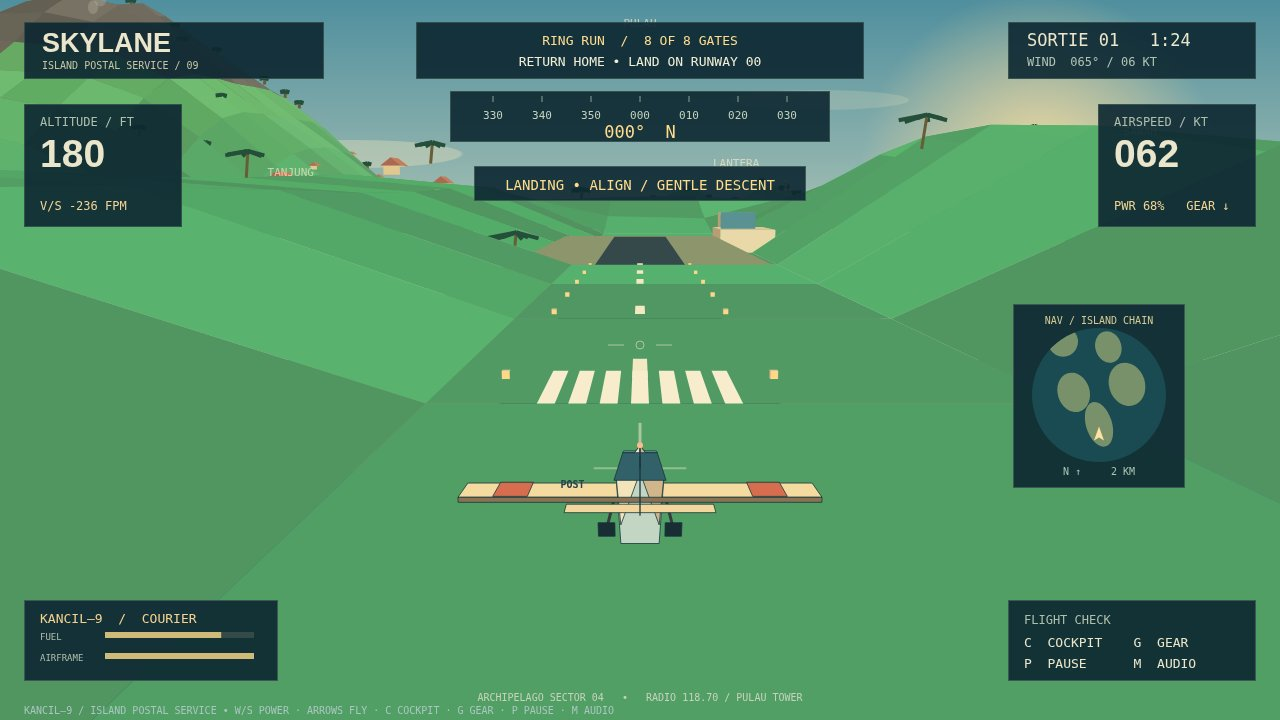
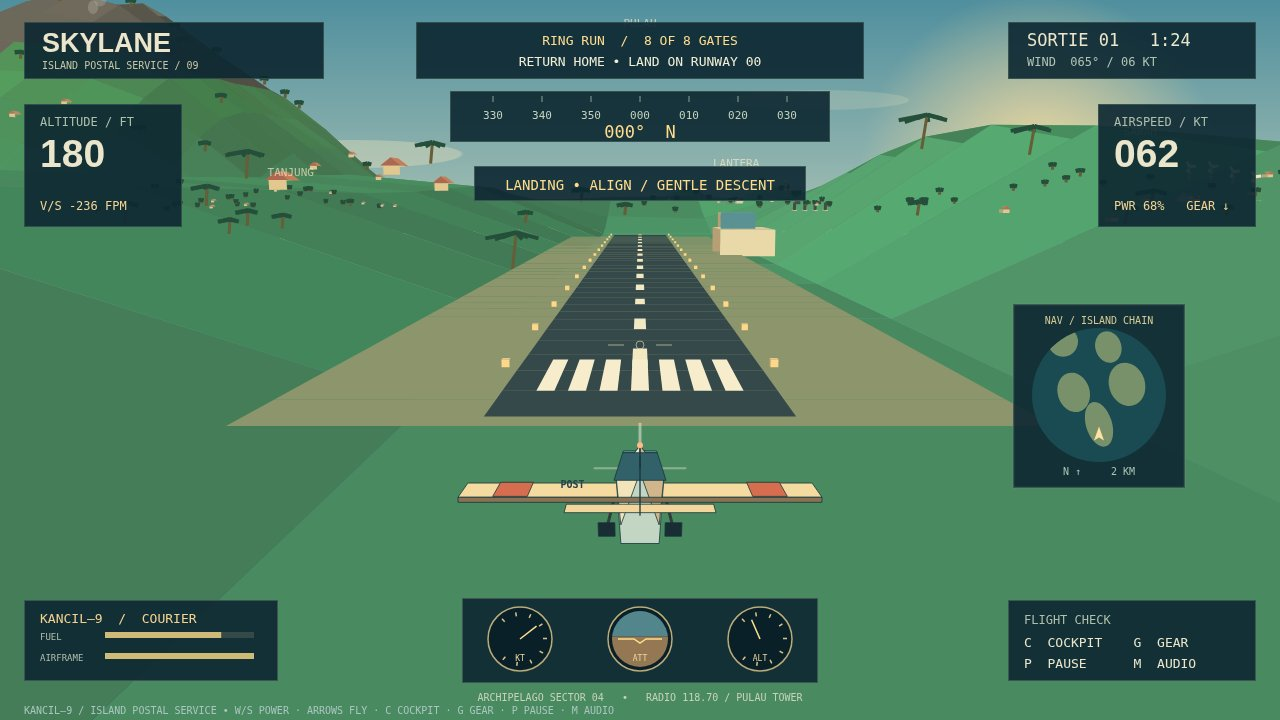
Polish terrain and instruments; verify all three flight missions and final screenshots

diff --git a/game/src/main.js b/game/src/main.js
@@ -12,10 +12,10 @@ let s=createFlight(),m=createMission(),view='chase',screen='title',selected=0,la
 function start(i=selected){selected=i;s=createFlight();m=createMission(i);screen='briefing';view='chase';if(i>0){s.y=350;s.z=-700;}}
 const input=setupInput(canvas,(key,e)=>{audio.start();if(key==='m')audio.toggle();if(key==='c')view=view==='chase'?'cockpit':'chase';if(key==='g')s.gear=!s.gear;if(key==='wheelup')s.throttle=clamp(s.throttle+.05,0,1);if(key==='wheeldown')s.throttle=clamp(s.throttle-.05,0,1);if(key==='p'||key==='escape')screen=screen==='flying'?'paused':screen==='paused'?'flying':screen;if(key==='r')start();if(['1','2','3'].includes(key))start(Number(key)-1);if(key==='enter'||key===' '){if(screen==='title')start();else if(screen==='briefing'||screen==='paused')screen='flying';else if(screen==='complete'){if(m.index<2)start(m.index+1);else screen='title';}else if(screen==='crashed')start();}if(key==='click'){const y=e.clientY/innerHeight*720,x=e.clientX/innerWidth*1280;if(screen==='title'){if(y>330&&y<470)selected=clamp(Math.floor((x-170)/315),0,2);else if(y>480)start();}else if(screen==='briefing'||screen==='paused')screen='flying';else if(screen==='crashed')start();else if(screen==='complete'){if(m.index<2)start(m.index+1);else screen='title';}}});
 function overlay(){const c=renderer.ctx;if(screen==='flying')return;if(screen==='title'){panel(c,120,165,1040,406);text(c,'S K Y L A N E',640,231,58,'#ffe5a7','center');text(c,'A R C H I P E L A G O   C O U R I E R',640,267,19,'#c6d3be','center');text(c,'Five islands. One little aircraft. A sky full of stories.',640,307,15,'#e9dec1','center');missions.forEach((a,i)=>{panel(c,170+i*315,338,300,120);text(c,'0'+(i+1)+' / '+a.name,190+i*315,369,18,'#ffdc91');let n=0;try{n=Number(localStorage.getItem('skylane-stars-'+i))||0;}catch{}text(c,'★'.repeat(n)+'☆'.repeat(3-n),190+i*315,399,23,'#e9bd64');text(c,i===0?'8 GATES + A CLEAN LANDING':i===1?'THREE ISLAND MAIL ROUTE':'BEACON + STORM APPROACH',190+i*315,432,10);});text(c,'CLICK A SORTIE, THEN CLICK HERE TO FLY  /  ENTER',640,500,15,'#ffe4a4','center');text(c,'ARROWS / A D: BANK & PITCH   W S: THROTTLE   Q E: RUDDER',640,532,12,'#b6c8b9','center');text(c,'HOLD MOUSE TO STEER   C: COCKPIT   G: GEAR   P: PAUSE   M: MUTE',640,552,12,'#b6c8b9','center');return;}
- panel(c,280,214,720,330);let title=screen==='briefing'?missions[m.index].name:screen==='paused'?'SORTIE PAUSED':screen==='crashed'?'COURIER DOWN':m.index===2?'CAMPAIGN COMPLETE':'DELIVERY COMPLETE';text(c,title,640,263,35,'#ffe2a1','center');if(screen==='complete'){text(c,'★  ★  ★'.slice(0,m.stars*3+1),640,320,43,'#ffd27a','center');text(c,m.score.toLocaleString()+'  POINTS',640,366,29,'#f4ecd0','center');text(c,`TIME BONUS  ${m.timeBonus}   •   CLEAN LANDING  ${m.landingBonus}`,640,405,14,'#c7d4bd','center');text(c,`FUEL RESERVE  ${m.fuelBonus}   •   ROUTE BONUS  ${m.index===0?'4000':'3000'}`,640,434,14,'#c7d4bd','center');text(c,m.index===2?'ALL ISLANDS CONNECTED. THANK YOU, PILOT.':'THE ISLAND POST IS IN GOOD HANDS.',640,465,12,'#d7c798','center');}else if(screen==='briefing'){text(c,missions[m.index].brief,640,316,13,'#e8e4cc','center');text(c,'PITCH UP: ↓   PITCH DOWN: ↑   BANK: ← →',640,362,16,'#ffdb8e','center');text(c,'Approach at 55–80 kt. Gear down. Keep descent below 900 ft/min.',640,400,13,'#becdb9','center');text(c,'Airborne start • Your aircraft is trimmed and ready.',640,438,14,'#becdb9','center');}else if(screen==='crashed'){text(c,s.crash,640,328,19,'#ffbb90','center');text(c,'Keep airspeed above 53 kt. Use gentle turns and plan your descent.',640,390,13,'#c7d4bd','center');}else{text(c,'Take a breath. Your route is waiting.',640,344,20,'#c7d4bd','center');}text(c,screen==='complete'?(m.index===2?'ENTER / CLICK • BACK TO HANGAR':'ENTER / CLICK • NEXT SORTIE'):screen==='crashed'?'R / ENTER / CLICK • RETRY':'ENTER / CLICK • '+(screen==='paused'?'RESUME FLIGHT':'DEPART'),640,514,15,'#ffdc91','center');}
+ if(screen==='complete'){c.save();c.translate(0,-65);}panel(c,280,214,720,330);let title=screen==='briefing'?missions[m.index].name:screen==='paused'?'SORTIE PAUSED':screen==='crashed'?'COURIER DOWN':m.index===2?'CAMPAIGN COMPLETE':'DELIVERY COMPLETE';text(c,title,640,263,35,'#ffe2a1','center');if(screen==='complete'){text(c,'★  ★  ★'.slice(0,m.stars*3+1),640,320,43,'#ffd27a','center');text(c,m.score.toLocaleString()+'  POINTS',640,366,29,'#f4ecd0','center');text(c,`TIME BONUS  ${m.timeBonus}   •   CLEAN LANDING  ${m.landingBonus}`,640,405,14,'#c7d4bd','center');text(c,`FUEL RESERVE  ${m.fuelBonus}   •   ROUTE BONUS  ${m.index===0?'4000':'3000'}`,640,434,14,'#c7d4bd','center');text(c,m.index===2?'ALL ISLANDS CONNECTED. THANK YOU, PILOT.':'THE ISLAND POST IS IN GOOD HANDS.',640,465,12,'#d7c798','center');}else if(screen==='briefing'){text(c,missions[m.index].brief,640,316,13,'#e8e4cc','center');text(c,'PITCH UP: ↓   PITCH DOWN: ↑   BANK: ← →',640,362,16,'#ffdb8e','center');text(c,'Approach at 55–80 kt. Gear down. Keep descent below 900 ft/min.',640,400,13,'#becdb9','center');text(c,'Airborne start • Your aircraft is trimmed and ready.',640,438,14,'#becdb9','center');}else if(screen==='crashed'){text(c,s.crash,640,328,19,'#ffbb90','center');text(c,'Keep airspeed above 53 kt. Use gentle turns and plan your descent.',640,390,13,'#c7d4bd','center');}else{text(c,'Take a breath. Your route is waiting.',640,344,20,'#c7d4bd','center');}text(c,screen==='complete'?(m.index===2?'ENTER / CLICK • BACK TO HANGAR':'ENTER / CLICK • NEXT SORTIE'):screen==='crashed'?'R / ENTER / CLICK • RETRY':'ENTER / CLICK • '+(screen==='paused'?'RESUME FLIGHT':'DEPART'),640,514,15,'#ffdc91','center');if(screen==='complete')c.restore();}
 function paint(){renderer.render(s,m,view);drawHUD(renderer.ctx,s,m,view,audio.muted);overlay();}
-function tick(dt){stepFlight(s,input(),dt);updateMission(m,s,dt,audio);audio.update(s);if(s.crash&&screen!=='crashed'){screen='crashed';audio.tone(55,1,.7,'sawtooth');}if(m.done)screen='complete';}
+function tick(dt){const wasLanded=s.landed;stepFlight(s,input(),dt);if(s.landed&&!wasLanded)audio.tone(65,.4,.6,'triangle');updateMission(m,s,dt,audio);audio.update(s);if(s.crash&&screen!=='crashed'){screen='crashed';audio.tone(55,1,.7,'sawtooth');}if(m.done)screen='complete';}
 function loop(now){const dt=Math.min(.1,(now-last)/1000||0);last=now;if(screen==='flying'){accum+=dt;while(accum>=1/60){tick(1/60);accum-=1/60;}}paint();requestAnimationFrame(loop);}
-export function runSelftest(){s=createFlight();m=createMission(0);let frames=0;for(;frames<30000&&!m.done&&!s.crash;frames++){const t=target(m),landing=m.ring===8;const desiredY=landing?Math.max(43,Math.min(230,43+(760-s.z)*.13)):t.y;const heading=Math.atan2(t.x-s.x,t.z-s.z);const err=wrap(heading-s.heading);if(landing){s.gear=true;s.throttle=.22;}const desiredPitch=clamp((desiredY-s.y)*.018-(landing?.065:0),-.22,.22);stepFlight(s,{roll:clamp(err*3-s.roll*.6,-1,1),pitch:desiredPitch/.32,power:0},1/60);updateMission(m,s,1/60);}screen=m.done?'complete':'crashed';paint();const result={result:m.done?'PASS':'FAIL',rings:m.ring,landing:s.landingQuality||s.crash||'none',score:m.score,seconds:Math.round(frames/60),position:[s.x,s.y,s.z]};const el=document.querySelector('#selftest');el.hidden=false;el.textContent=JSON.stringify(result);window.__selftest=result;window.__shotReady=true;return result;}
+export function runSelftest(){s=createFlight();m=createMission(0);let frames=0;for(;frames<30000&&!m.done&&!s.crash;frames++){const t=target(m),landing=m.ring===8;const desiredY=landing?Math.max(43,Math.min(230,43+(760-s.z)*.13)):t.y;const heading=Math.atan2(t.x-s.x,t.z-s.z);const err=wrap(heading-s.heading);if(landing)s.gear=true;const desiredPitch=clamp((desiredY-s.y)*.018-(landing?.065:0),-.22,.22);stepFlight(s,{roll:clamp(err*3-s.roll*.6,-1,1),pitch:desiredPitch/.32,power:clamp(((landing?.22:.65)-s.throttle)*10,-1,1)},1/60);updateMission(m,s,1/60);}screen=m.done?'complete':'crashed';paint();const result={result:m.done?'PASS':'FAIL',rings:m.ring,landing:s.landingQuality||s.crash||'none',score:m.score,seconds:Math.round(frames/60),position:[s.x,s.y,s.z]};const el=document.querySelector('#selftest');el.hidden=false;el.textContent=JSON.stringify(result);window.__selftest=result;window.__shotReady=true;return result;}
 window.skylane={get state(){return s;},get mission(){return m;},get screen(){return screen;},get view(){return view;},get muted(){return audio.muted;},start,step:tick,paint,setScreen:v=>screen=v};
 if(params.has('shot')){const shot=stageShot(params.get('shot'));s=shot.s;m=shot.m;view=shot.view;screen=m.done?'complete':'flying';paint();paint();window.__shotReady=true;}else if(params.has('selftest'))runSelftest();else requestAnimationFrame(loop);

diff --git a/game/src/render.js b/game/src/render.js
@@ -9,19 +9,26 @@ export class WorldRenderer{
  render(s,m,view='chase'){const ctx=this.ctx,storm=m.index===2;this.canvas.width=1280;this.canvas.height=720;this.queue=[];const back=view==='cockpit'?2:100,up=view==='cockpit'?3:34;const tilt=view==='cockpit'?s.pitch:s.pitch*.35-.13;this.cam={x:s.x-Math.sin(s.heading)*back,y:s.y+up,z:s.z-Math.cos(s.heading)*back,cos:Math.cos(s.heading),sin:Math.sin(s.heading),cp:Math.cos(tilt),sp:Math.sin(tilt),bank:-s.roll*(view==='cockpit'?.65:.18)};
  const sky=ctx.createLinearGradient(0,0,0,530);sky.addColorStop(0,storm?'#304d63':'#508f9e');sky.addColorStop(.6,storm?'#91a4a3':'#c9d4bc');sky.addColorStop(1,'#f3c796');ctx.fillStyle=sky;ctx.fillRect(0,0,1280,720);const sun=ctx.createRadialGradient(1040,170,8,1040,170,180);sun.addColorStop(0,'#fff5c9');sun.addColorStop(.15,'#ffdf9cbb');sun.addColorStop(1,'#ffdc9900');ctx.fillStyle=sun;ctx.fillRect(840,0,400,390);ctx.fillStyle='#fff0c1';ctx.beginPath();ctx.arc(1040,170,22,0,7);ctx.fill();
  for(let i=0;i<9;i++){ctx.fillStyle='#f8e8c130';ctx.beginPath();ctx.ellipse((i*233+120)%1400,100+(i%3)*54,90+i%3*20,10+i%3*4,0,0,7);ctx.fill();}
- const sea=ctx.createLinearGradient(0,290,0,720);sea.addColorStop(0,'#7eaaa7');sea.addColorStop(.4,'#368e96');sea.addColorStop(1,'#145869');ctx.fillStyle=sea;ctx.fillRect(0,360,1280,360);this.poly([[-20000,0,-20000],[20000,0,-20000],[20000,0,20000],[-20000,0,20000]],'#398892');
- for(const t of this.world.tiles){const h=t.p.reduce((a,p)=>a+p[1],0)/4;if(h<1)continue;const shade=Math.round(75+t.tone*17+h*.025);let col=h<14?`hsl(40 43% ${65+t.tone*8}%)`:h>500?`hsl(40 10% ${32+t.tone*10}%)`:`hsl(${137-h*.04} ${28+t.tone*10}% ${shade*.57}%)`;this.poly(t.p,col);if(h<24){const p=t.p.map(v=>[v[0],v[1]+.5,v[2]]);this.line(p[0],p[1],'#d4e2b54d',2);}}
+ const sea=ctx.createLinearGradient(0,290,0,720);sea.addColorStop(0,'#7eaaa7');sea.addColorStop(.4,'#368e96');sea.addColorStop(1,'#145869');ctx.fillStyle=sea;const horizon=Math.max(0,Math.min(720,330+Math.tan(tilt)*900));ctx.fillRect(0,horizon,1280,720-horizon);
+ for(const t of this.world.tiles){const h=t.p.reduce((a,p)=>a+p[1],0)/4;if(h<1)continue;const slope=(t.p[1][1]-t.p[0][1])*.08+(t.p[3][1]-t.p[0][1])*.04;const shade=40+t.tone*4+Math.max(-9,Math.min(12,slope));let col=h<14?`hsl(40 43% ${68+t.tone*4}%)`:h>500?`hsl(40 10% ${33+t.tone*4+slope}%)`:`hsl(${143-h*.04} ${29+t.tone*4}% ${shade}%)`;this.poly(t.p,col);if(h<24){const p=t.p.map(v=>[v[0],v[1]+.5,v[2]]);this.line(p[0],p[1],'#d4e2b54d',2);}}
  for(let z=-2000;z<10000;z+=135)for(let x=-4500;x<4500;x+=310){if(heightAt(x,z)>1)continue;this.line([x,1,z],[x+45,1,z+5],'#a8dbcc30',1);}
- for(const r of runways){this.poly([[r.x-95,r.y+.5,r.z-r.l/2-30],[r.x+95,r.y+.5,r.z-r.l/2-30],[r.x+95,r.y+.5,r.z+r.l/2+30],[r.x-95,r.y+.5,r.z+r.l/2+30]],'#8c956b');this.poly([[r.x-r.w/2,r.y+1,r.z-r.l/2],[r.x+r.w/2,r.y+1,r.z-r.l/2],[r.x+r.w/2,r.y+1,r.z+r.l/2],[r.x-r.w/2,r.y+1,r.z+r.l/2]],'#35484a');for(let z=-r.l/2+45;z<r.l/2;z+=65){this.poly([[r.x-2,r.y+2,r.z+z],[r.x+2,r.y+2,r.z+z],[r.x+2,r.y+2,r.z+z+28],[r.x-2,r.y+2,r.z+z+28]],'#f2e8c1');for(const a of [-1,1])this.box(r.x+a*34,r.y+2,r.z+z,1,2,1,'#ffd789');}for(let a=-3;a<=3;a++)this.poly([[r.x+a*7-2,r.y+2,r.z-r.l/2+15],[r.x+a*7+2,r.y+2,r.z-r.l/2+15],[r.x+a*7+2,r.y+2,r.z-r.l/2+55],[r.x+a*7-2,r.y+2,r.z-r.l/2+55]],'#f7edcd');this.box(r.x+90,r.y,r.z+140,23,22,40,'#e9d9a9');this.box(r.x+85,r.y+22,r.z+145,15,14,15,'#5a9294');}
+ for(const q of this.queue)q.layer=0;
+ for(const r of runways){
+  // Small surface segments sort correctly against the terrain beneath them.
+  for(let z=-r.l/2;z<r.l/2;z+=25){const end=Math.min(z+25,r.l/2);for(const [w,y,col] of [[85,1,'#8c956b'],[r.w/2,3,'#35484a']])this.poly([[r.x-w,r.y+y,r.z+z],[r.x+w,r.y+y,r.z+z],[r.x+w,r.y+y,r.z+end],[r.x-w,r.y+y,r.z+end]],col);}
+  for(let z=-r.l/2+45;z<r.l/2;z+=65){this.poly([[r.x-2,r.y+5,r.z+z],[r.x+2,r.y+5,r.z+z],[r.x+2,r.y+5,r.z+z+28],[r.x-2,r.y+5,r.z+z+28]],'#f2e8c1');for(const a of [-1,1])this.box(r.x+a*34,r.y+5,r.z+z,1,2,1,'#ffd789');}
+  for(let a=-3;a<=3;a++)this.poly([[r.x+a*7-2,r.y+5,r.z-r.l/2+15],[r.x+a*7+2,r.y+5,r.z-r.l/2+15],[r.x+a*7+2,r.y+5,r.z-r.l/2+55],[r.x+a*7-2,r.y+5,r.z-r.l/2+55]],'#f7edcd');
+  this.box(r.x+90,r.y,r.z+140,23,22,40,'#e9d9a9');this.box(r.x+85,r.y+22,r.z+145,15,14,15,'#5a9294');
+ }
  for(const l of this.world.landmarks){if(l.type==='house'){this.box(l.x,l.y,l.z,11,12,17,'#e2c88e');this.poly([[l.x-14,l.y+12,l.z-20],[l.x,l.y+23,l.z-20],[l.x+14,l.y+12,l.z-20]],'#ad684f');this.poly([[l.x,l.y+23,l.z-20],[l.x+14,l.y+12,l.z-20],[l.x+14,l.y+12,l.z+20],[l.x,l.y+23,l.z+20]],'#c37e58');}else if(l.type==='palm'){this.line([l.x,l.y,l.z],[l.x+3,l.y+25,l.z],'#665d39',3);for(let a=0;a<6;a++){const d=a*Math.PI/3;this.line([l.x+3,l.y+25,l.z],[l.x+Math.cos(d)*18,l.y+21,l.z+Math.sin(d)*18],'#254f3b',4);}}else{for(let j=0;j<6;j++)this.box(l.x,l.y+j*l.s/6,l.z,l.type==='lighthouse'?7:2,l.s/6,7,j%2?'#e4dbc2':'#be674f');if(l.type==='turbine'){for(let a=0;a<3;a++){const d=s.time+a*2.094;this.line([l.x,l.y+l.s,l.z],[l.x+Math.cos(d)*28,l.y+l.s+Math.sin(d)*28,l.z],'#f4e5c6',3);}}else this.box(l.x,l.y+l.s,l.z,10,8,10,'#ffe4a1');}}
  // Harbour pilings, cargo boats and dock cranes use the same world projection.
  for(let i=0;i<4;i++){const x=1200+i*80,z=7600;this.box(x,1,z,14,8,35,'#d3b88b');this.box(x,9,z+8,8,8,10,'#f5e7ba');this.line([x,4,z],[x,65,z],'#434e48',3);this.line([x,65,z],[x+45,65,z],'#434e48',3);}
- if(m.index===0)for(let i=m.ring;i<rings.length;i++){const r=rings[i],pts=[];for(let a=0;a<=64;a++){const d=a/64*Math.PI*2;pts.push([r.x+Math.cos(d)*r.r,r.y+Math.sin(d)*r.r,r.z]);}for(let a=0;a<64;a++)this.line(pts[a],pts[a+1],i===m.ring?'#ffe39b':'#a8dfba88',i===m.ring?5:2);}
- this.queue.sort((a,b)=>b.d-a.d);for(const q of this.queue){ctx.beginPath();q.p.forEach((v,i)=>i?ctx.lineTo(v.x,v.y):ctx.moveTo(v.x,v.y));if(q.color){ctx.closePath();ctx.fillStyle=q.color;ctx.fill();}if(q.stroke){ctx.strokeStyle=q.stroke;ctx.lineWidth=q.width||1;ctx.stroke();}if(q.color&&q.d>1700){ctx.fillStyle=`rgba(179,197,176,${Math.min(.55,(q.d-1700)/14000)})`;ctx.fill();}}
+ if(m.index===0)for(let i=m.ring;i<rings.length;i++){const r=rings[i],pts=[];for(let a=0;a<=64;a++){const d=a/64*Math.PI*2;pts.push([r.x+Math.cos(d)*r.r,r.y+Math.sin(d)*r.r,r.z]);}for(let a=0;a<64;a++)this.line(pts[a],pts[a+1],i===m.ring?'#ffe39b':'#a8dfba88',i===m.ring?5+Math.sin(s.time*2):2);}
+ this.queue.sort((a,b)=>(a.layer??1)-(b.layer??1)||b.d-a.d);for(const q of this.queue){ctx.beginPath();q.p.forEach((v,i)=>i?ctx.lineTo(v.x,v.y):ctx.moveTo(v.x,v.y));if(q.color){ctx.closePath();ctx.fillStyle=q.color;ctx.fill();}if(q.stroke){ctx.strokeStyle=q.stroke;ctx.lineWidth=q.width||1;ctx.stroke();}if(q.color&&q.d>1700){ctx.fillStyle=`rgba(179,197,176,${Math.min(.55,(q.d-1700)/14000)})`;ctx.fill();}}
  // Soft smoke remains anchored to the volcanic crater.
  for(let i=0;i<12;i++){const p=this.project([-1900+i*20,750+i*31,3800+i*13]);if(p){ctx.fillStyle=`rgba(194,193,173,${.30-i*.016})`;ctx.beginPath();ctx.ellipse(p.x,p.y,(18+i*4)*900/p.z,(24+i*3)*900/p.z,0,0,7);ctx.fill();}}
  for(const i of islands){const p=this.project([i.x,i.h+85,i.z]);if(p&&p.z>700){ctx.font='11px monospace';ctx.textAlign='center';ctx.fillStyle='#f7ebccaa';ctx.fillText(i.name,p.x,p.y);}}
- if(view==='chase')this.plane(s);if(storm){ctx.strokeStyle='#c4dbdd50';ctx.lineWidth=1;for(let i=0;i<130;i++){let x=(i*113+s.time*160)%1280,y=(i*79+s.time*310)%720;ctx.beginPath();ctx.moveTo(x,y);ctx.lineTo(x-9,y+24);ctx.stroke();}}
+ if(view==='chase')this.plane(s);if(storm){const a=this.project([1000,220,6800]),b=this.project([1000+Math.sin(s.time*.35)*700,200,6800+Math.cos(s.time*.35)*700]);if(a&&b){ctx.strokeStyle='#ffe49b55';ctx.lineWidth=12;ctx.beginPath();ctx.moveTo(a.x,a.y);ctx.lineTo(b.x,b.y);ctx.stroke();}ctx.strokeStyle='#c4dbdd50';ctx.lineWidth=1;for(let i=0;i<130;i++){let x=(i*113+s.time*160)%1280,y=(i*79+s.time*310)%720;ctx.beginPath();ctx.moveTo(x,y);ctx.lineTo(x-9,y+24);ctx.stroke();}if(s.time>24&&s.time<35){ctx.strokeStyle='#132e39';ctx.lineWidth=2;for(let i=0;i<12;i++){const x=100+i*61+(s.time-24)*24,y=250+Math.sin(i)*50;ctx.beginPath();ctx.moveTo(x-8,y);ctx.lineTo(x,y+5);ctx.lineTo(x+8,y);ctx.stroke();}}}
  }
  plane(s){const ctx=this.ctx;this.queue=[];const point=(x,y,z)=>{let xx=x*Math.cos(s.roll)-y*Math.sin(s.roll),yy=x*Math.sin(s.roll)+y*Math.cos(s.roll);let zz=z*Math.cos(s.pitch)-yy*Math.sin(s.pitch);yy=yy*Math.cos(s.pitch)+z*Math.sin(s.pitch);return[s.x+xx*Math.cos(s.heading)+zz*Math.sin(s.heading),s.y+yy,s.z-xx*Math.sin(s.heading)+zz*Math.cos(s.heading)];};const face=(ps,c)=>this.poly(ps.map(p=>point(...p)),c,'#16363b');
  face([[-2,-2,-10],[2,-2,-10],[3,0,9],[0,3,13],[-3,0,9]],'#c3d6c4');face([[-2,0,-10],[-3,0,9],[0,3,13],[0,4,-4]],'#f4e4bb');face([[0,4,-4],[0,3,13],[3,0,9],[2,0,-10]],'#d1b68b');

diff --git a/game/src/hud.js b/game/src/hud.js
@@ -2,13 +2,14 @@ import {target} from './missions.js';
 import {missions} from './config.js';
 export function panel(c,x,y,w,h){c.fillStyle='#0d2832e8';c.fillRect(x,y,w,h);c.strokeStyle='#b6c4a342';c.strokeRect(x+.5,y+.5,w-1,h-1);}
 export function text(c,str,x,y,size=14,color='#eae5cb',align='left'){c.font=`${size>20?'bold ':''}${size}px ${size>20?'Arial':'monospace'}`;c.fillStyle=color;c.textAlign=align;c.fillText(str,x,y);}
-export function drawHUD(c,s,m,view,muted){const hdg=(Math.round(s.heading*180/Math.PI)+360)%360,t=target(m),dist=Math.hypot(t.x-s.x,t.z-s.z);panel(c,24,22,300,57);text(c,'SKYLANE',42,52,27);text(c,'ISLAND POSTAL SERVICE / 09',42,69,10,'#c5c5a7');panel(c,416,22,448,57);text(c,missions[m.index].name+'  /  '+(m.index===0?`${Math.min(m.ring+1,8)} OF 8 GATES`:m.index===1?m.delivered.length+' / 3 DELIVERIES':m.rescued?'RETURN TO HARBOUR':'LOCATE KEEPER'),640,45,13,'#ffdc8e','center');text(c,m.index===0&&m.ring===8?'RETURN HOME • LAND ON RUNWAY 00':`NEXT TARGET  ${dist<1000?Math.round(dist)+' M':(dist/1000).toFixed(1)+' KM'}   ↑`,640,66,13,'#f0efd5','center');panel(c,1008,22,248,57);text(c,`SORTIE ${String(m.index+1).padStart(2,'0')}   ${Math.floor(m.elapsed/60)}:${String(Math.floor(m.elapsed%60)).padStart(2,'0')}`,1027,46,17);text(c,'WIND  065° / '+(m.index===2?'18':'06')+' KT',1027,66,12,'#b0c3b4');
+export function drawHUD(c,s,m,view,muted){const hdg=(Math.round(s.heading*180/Math.PI)+360)%360,t=target(m),dist=Math.hypot(t.x-s.x,t.z-s.z),bearing=Math.atan2(t.x-s.x,t.z-s.z)-s.heading,dir=Math.atan2(Math.sin(bearing),Math.cos(bearing)),arrow=Math.abs(dir)<.25?'↑':Math.abs(dir)>2.4?'↓':dir>0?'→':'←';panel(c,24,22,300,57);text(c,'SKYLANE',42,52,27);text(c,'ISLAND POSTAL SERVICE / 09',42,69,10,'#c5c5a7');panel(c,416,22,448,57);text(c,missions[m.index].name+'  /  '+(m.index===0?`${Math.min(m.ring+1,8)} OF 8 GATES`:m.index===1?m.delivered.length+' / 3 DELIVERIES':m.rescued?'RETURN TO HARBOUR':'LOCATE KEEPER'),640,45,13,'#ffdc8e','center');text(c,m.index===0&&m.ring===8?'RETURN HOME • LAND ON RUNWAY 00':`NEXT TARGET  ${dist<1000?Math.round(dist)+' M':(dist/1000).toFixed(1)+' KM'}   ${arrow}`,640,66,13,'#f0efd5','center');panel(c,1008,22,248,57);text(c,`SORTIE ${String(m.index+1).padStart(2,'0')}   ${Math.floor(m.elapsed/60)}:${String(Math.floor(m.elapsed%60)).padStart(2,'0')}`,1027,46,17);text(c,'WIND  065° / '+(m.index===2?'18':'06')+' KT',1027,66,12,'#b0c3b4');
  panel(c,24,104,158,123);text(c,'ALTITUDE / FT',40,126,12,'#aebfac');text(c,Math.round(s.y*3.281).toLocaleString(),40,167,39);text(c,`V/S ${s.vs>=0?'+':''}${Math.round(s.vs*196.85)} FPM`,40,210,12,'#f2d395');panel(c,1098,104,158,123);text(c,'AIRSPEED / KT',1114,126,12,'#aebfac');text(c,String(Math.round(s.speed*1.944)).padStart(3,'0'),1114,167,39);text(c,`PWR ${Math.round(s.throttle*100)}%   ${s.gear?'GEAR ↓':'GEAR ↑'}`,1114,210,12,'#f2d395');
  panel(c,450,91,380,51);for(let i=-3;i<=3;i++){const x=640+i*49;c.strokeStyle='#a9bfb0';c.beginPath();c.moveTo(x,96);c.lineTo(x,102);c.stroke();text(c,String((Math.round(hdg/10)*10+i*10+360)%360).padStart(3,'0'),x,119,11,'#c2d2bd','center');}text(c,`${String(hdg).padStart(3,'0')}°  ${hdg<45||hdg>315?'N':hdg<135?'E':hdg<225?'S':'W'}`,640,138,17,'#ffdc8c','center');
  c.strokeStyle='#e5e3bba0';c.lineWidth=1;for(const a of [-1,1]){c.beginPath();c.moveTo(640+a*16,345);c.lineTo(640+a*32,345);c.stroke();}c.beginPath();c.arc(640,345,4,0,7);c.stroke();
  if(s.stall){panel(c,510,166,260,38);text(c,'⚠ STALL — LOWER NOSE',640,192,19,'#ff9b68','center');}else if(s.gear&&s.y<150){panel(c,474,166,332,35);text(c,'LANDING • ALIGN / GENTLE DESCENT',640,190,14,'#ffdc8c','center');}
  if(view==='cockpit')drawCockpit(c,s,hdg);else{panel(c,24,600,254,81);text(c,'KANCIL–9  /  COURIER',40,623,13,'#f5d291');bar(c,40,640,214,s.fuel,'FUEL');bar(c,40,661,214,100-s.damage,'AIRFRAME');panel(c,1008,600,248,81);text(c,'FLIGHT CHECK',1024,624,12,'#aebfac');text(c,'C  COCKPIT    G  GEAR',1024,647,13);text(c,'P  PAUSE      M  '+(muted?'MUTED':'AUDIO'),1024,668,13);}
- drawMap(c,s,m);text(c,`ARCHIPELAGO SECTOR 04   •   ${s.fuel<20?'LOW FUEL — DIVERT':s.damage>10?'AIRFRAME DAMAGE '+Math.round(s.damage)+'%':'RADIO 118.70 / PULAU TOWER'}`,640,701,10,'#c6d2bc','center');}
+ if(view==='chase')drawFlightInstruments(c,s);drawMap(c,s,m);text(c,`ARCHIPELAGO SECTOR 04   •   ${s.fuel<20?'LOW FUEL — DIVERT':s.damage>10?'AIRFRAME DAMAGE '+Math.round(s.damage)+'%':'RADIO 118.70 / PULAU TOWER'}`,640,701,10,'#c6d2bc','center');}
+function drawFlightInstruments(c,s){panel(c,462,598,356,85);for(let i=0;i<3;i++){const x=520+i*120,y=639;c.fillStyle='#0a2029';c.beginPath();c.arc(x,y,32,0,7);c.fill();c.strokeStyle='#bbab79';c.lineWidth=1.5;c.stroke();c.save();c.beginPath();c.arc(x,y,28,0,7);c.clip();if(i===1){c.translate(x,y);c.rotate(-s.roll);c.fillStyle='#53858d';c.fillRect(-35,-40,70,40+s.pitch*60);c.fillStyle='#947854';c.fillRect(-35,s.pitch*60,70,40);c.strokeStyle='#ffdc8c';c.beginPath();c.moveTo(-22,0);c.lineTo(-6,0);c.lineTo(0,4);c.lineTo(6,0);c.lineTo(22,0);c.stroke();}c.restore();if(i!==1){for(let j=0;j<9;j++){const a=-2.3+j*.57;c.strokeStyle='#dac38b';c.beginPath();c.moveTo(x+Math.cos(a)*23,y+Math.sin(a)*23);c.lineTo(x+Math.cos(a)*27,y+Math.sin(a)*27);c.stroke();}const a=-2.3+(i===0?s.speed/90:s.y/800)*4.6;c.strokeStyle='#ffde91';c.beginPath();c.moveTo(x,y);c.lineTo(x+Math.cos(a)*21,y+Math.sin(a)*21);c.stroke();}text(c,['KT','ATT','ALT'][i],x,y+22,8,'#efd399','center');}}
 function bar(c,x,y,w,val,label){text(c,label,x,y,9,'#aebfac');c.fillStyle='#344a48';c.fillRect(x+65,y-8,w-65,6);c.fillStyle=val<25?'#d5795a':'#cfba77';c.fillRect(x+65,y-8,(w-65)*Math.max(0,val)/100,6);}
 export function drawCockpit(c,s,hdg){c.fillStyle='#17333bdd';c.beginPath();c.moveTo(0,720);c.lineTo(0,565);c.quadraticCurveTo(640,475,1280,565);c.lineTo(1280,720);c.fill();c.strokeStyle='#aa9c6d';c.lineWidth=3;c.stroke();c.strokeStyle='#17333b';c.lineWidth=13;c.beginPath();c.moveTo(120,565);c.lineTo(0,0);c.moveTo(1160,565);c.lineTo(1280,0);c.stroke();text(c,'KANCIL–9  •  PULAU AIRMAIL',640,547,11,'#d7bf88','center');const gauges=[['AIRSPEED',s.speed*1.944,170],['ALT / FT',s.y*3.281,1900],['ATTITUDE',s.roll,1],['HEADING',hdg,360],['FUEL',s.fuel,100]];gauges.forEach(([label,value,max],i)=>{const x=300+i*170,y=623,r=62;c.fillStyle='#061c25';c.beginPath();c.arc(x,y,r,0,7);c.fill();c.strokeStyle='#9e946a';c.lineWidth=3;c.stroke();c.save();c.beginPath();c.arc(x,y,r-7,0,7);c.clip();if(i===2){c.translate(x,y);c.rotate(-s.roll);c.fillStyle='#527e8a';c.fillRect(-70,-80,140,80+s.pitch*100);c.fillStyle='#947653';c.fillRect(-70,s.pitch*100,140,90);c.strokeStyle='#ffdc8e';c.lineWidth=2;c.beginPath();c.moveTo(-42,0);c.lineTo(-10,0);c.lineTo(0,7);c.lineTo(10,0);c.lineTo(42,0);c.stroke();}c.restore();for(let j=0;j<25;j++){const a=-Math.PI*.75+j/24*Math.PI*1.5;c.strokeStyle=j%3?'#8d9476':'#f0c784';c.lineWidth=j%3?1:2;c.beginPath();c.moveTo(x+Math.cos(a)*(r-8),y+Math.sin(a)*(r-8));c.lineTo(x+Math.cos(a)*(r-(j%3?12:17)),y+Math.sin(a)*(r-(j%3?12:17)));c.stroke();}if(i!==2){const a=-Math.PI*.75+Math.min(1,value/max)*Math.PI*1.5;c.strokeStyle='#ffdb83';c.lineWidth=2;c.beginPath();c.moveTo(x,y);c.lineTo(x+Math.cos(a)*39,y+Math.sin(a)*39);c.stroke();text(c,Math.round(value).toString(),x,y+31,17,'#ffe1a1','center');}text(c,label,x,y-19,9,'#f0cf8d','center');});panel(c,24,594,169,86);text(c,`POWER ${Math.round(s.throttle*100)}%`,39,617,14,'#ffd384');bar(c,39,640,139,s.fuel,'FUEL');text(c,s.gear?'● GEAR DOWN':'○ GEAR UP',39,665,13,'#c9dbba');}
 function drawMap(c,s,m){const x=1099,y=395,r=74;panel(c,x-86,y-91,172,184);text(c,'NAV / ISLAND CHAIN',x,y-71,10,'#d5c996','center');c.save();c.beginPath();c.arc(x,y,r-7,0,7);c.clip();c.fillStyle='#1a4a52';c.fillRect(x-80,y-70,160,140);for(const a of [[0,1400,13,23],[-1900,3800,16,20],[2100,4400,18,22],[700,7200,13,16],[-2700,7600,15,15]]){c.fillStyle='#79916b';c.beginPath();c.ellipse(x+a[0]/75,y+48-a[1]/75,a[2],a[3],-.3,0,7);c.fill();}const px=x+s.x/75,py=y+48-s.z/75;c.translate(px,py);c.rotate(s.heading);c.fillStyle='#ffe2a2';c.beginPath();c.moveTo(0,-8);c.lineTo(5,6);c.lineTo(0,3);c.lineTo(-5,6);c.fill();c.restore();text(c,'N ↑     2 KM',x,y+80,10,'#a9c3b1','center');}

diff --git a/game/src/physics.js b/game/src/physics.js
@@ -1,4 +1,48 @@
 import {clamp,wrap} from './config.js';
 import {heightAt,runwayAt} from './terrain.js';
-export function createFlight(){return{x:0,y:230,z:-2400,heading:0,pitch:0,roll:0,speed:58,vs:0,throttle:.65,fuel:100,damage:0,gear:false,landed:false,crash:'',stall:false,time:0};}
-export function stepFlight(s,input,dt){if(s.crash)return;s.time+=dt;s.throttle=clamp(s.throttle+(input.power||0)*dt*.3,0,1);s.roll+=(clamp(input.roll||0,-1,1)*.8-s.roll)*dt*2.8;s.pitch+=(clamp(input.pitch||0,-1,1)*.32-s.pitch)*dt*2;s.stall=s.speed<27&&!s.landed;const authority=clamp(s.speed/40,.25,1);s.heading=wrap(s.heading+(Math.tan(s.roll)*.28*authority+(input.rudder||0)*.12)*dt);const target=(s.fuel>0?22+s.throttle*(65-s.damage*.25):12);s.speed=clamp(s.speed+((target-s.speed)*.18-Math.sin(s.pitch)*9-(s.gear?1.3:0))*dt,0,100);let desired=Math.sin(s.pitch)*s.speed-(s.stall?9:0);s.vs+=(desired-s.vs)*Math.min(1,dt*3);s.fuel=Math.max(0,s.fuel-dt*(.018+s.throttle*.035));if(s.landed){s.speed=Math.max(0,s.speed-dt*(s.throttle<.3?7:0));s.vs=0;if(s.speed>35&&s.pitch>.06){s.landed=false;s.y+=2;}else{s.fuel=Math.min(100,s.fuel+dt*3);s.damage=Math.max(0,s.damage-dt*3);}}s.x+=Math.sin(s.heading)*s.speed*dt;s.z+=Math.cos(s.heading)*s.speed*dt;s.y+=s.vs*dt;const r=runwayAt(s.x,s.z),ground=r?r.y:heightAt(s.x,s.z);if(s.y<=ground+3&&!s.landed){if(r&&s.gear&&s.speed<45&&Math.abs(s.vs)<4.8&&Math.abs(Math.sin(s.heading))<.25){s.landed=true;s.landingQuality=Math.abs(s.vs)<2?'BUTTER':'SAFE';s.landingRunway=r.name;s.y=ground+3;s.vs=0;}else{s.damage+=Math.abs(s.vs)*5+20;s.crash=ground<1?'Ditched in the sea':r?'Hard runway impact — slow down, align and lower gear':ground>400?'Hit the volcano slope':'Struck island terrain';s.crash+=' at '+Math.round(s.speed*1.944)+' kt';}}if(s.landed){s.y=ground+3;if(!r)s.crash='Ran off the runway';} }
+export function createFlight(){return{x:0,y:230,z:-3400,heading:0,pitch:0,roll:0,speed:58,vs:0,throttle:.65,fuel:100,damage:0,gear:false,landed:false,crash:'',stall:false,time:0};}
+export function stepFlight(s,input,dt){
+ if(s.crash)return;
+ s.time+=dt;
+ s.throttle=clamp(s.throttle+(input.power||0)*dt*.3,0,1);
+ const authority=clamp(s.speed/40,.25,1);
+ s.roll+=(clamp(input.roll||0,-1,1)*.8-s.roll)*dt*2.8*authority;
+ s.pitch+=(clamp(input.pitch||0,-1,1)*.32-s.pitch)*dt*2*authority;
+ s.stall=s.speed<27&&!s.landed;
+ if(s.stall)s.pitch-=dt*.12;
+ s.heading=wrap(s.heading+(Math.tan(s.roll)*.28*authority+(input.rudder||0)*.12)*dt);
+ const target=s.fuel>0?22+s.throttle*(65-s.damage*.25):12;
+ const drag=(s.gear?1.3:0)+Math.abs(s.roll)*1.5;
+ s.speed=clamp(s.speed+((target-s.speed)*.18-Math.sin(s.pitch)*9-drag)*dt,0,100);
+ let desired=Math.sin(s.pitch)*s.speed-(s.stall?9:0);
+ const below=heightAt(s.x,s.z),overStrip=runwayAt(s.x,s.z);
+ if(overStrip&&s.gear&&s.y-below<18&&desired<0)desired*=.8;
+ s.vs+=(desired-s.vs)*Math.min(1,dt*3);
+ s.fuel=Math.max(0,s.fuel-dt*(.018+s.throttle*.035));
+ if(s.landed){
+  s.speed=Math.max(0,s.speed-dt*(s.throttle<.3?7:0));s.vs=0;
+  if(s.speed>35&&s.pitch>.06){s.landed=false;s.y+=2;}
+  else{s.fuel=Math.min(100,s.fuel+dt*3);s.damage=Math.max(0,s.damage-dt*3);}
+ }
+ s.x+=Math.sin(s.heading)*s.speed*dt;
+ s.z+=Math.cos(s.heading)*s.speed*dt;
+ s.y+=s.vs*dt;
+ const r=runwayAt(s.x,s.z),ground=r?r.y:heightAt(s.x,s.z);
+ if(s.y<=ground+3&&!s.landed){
+  const aligned=Math.abs(Math.sin(s.heading))<.25;
+  if(r&&s.gear&&s.speed<45&&Math.abs(s.vs)<4.8&&aligned){
+   s.landed=true;s.landingQuality=Math.abs(s.vs)<2?'BUTTER':'SAFE';
+   s.landingRunway=r.name;s.y=ground+3;s.vs=0;
+  }else if(r&&s.gear&&s.speed<49&&Math.abs(s.vs)<7&&aligned){
+   s.damage=Math.min(99,s.damage+18);s.landed=true;s.landingQuality='FIRM';
+   s.landingRunway=r.name;s.y=ground+3;s.vs=0;
+  }else if(!r&&ground>1&&s.speed<30&&Math.abs(s.vs)<5&&s.damage<60){
+   s.damage+=25;s.speed*=.7;s.y=ground+6;s.vs=3;
+  }else{
+   s.damage+=Math.abs(s.vs)*5+20;
+   s.crash=ground<1?'Ditched in the sea':r?'Hard runway impact — slow down, align and lower gear':ground>400?'Hit the volcano slope':'Struck island terrain';
+   s.crash+=' at '+Math.round(s.speed*1.944)+' kt';
+  }
+ }
+ if(s.landed){s.y=ground+3;if(!r)s.crash='Ran off the runway';}
+}

diff --git a/game/src/missions.js b/game/src/missions.js
@@ -1,6 +1,6 @@
 import {runways} from './terrain.js';
 import {missions} from './config.js';
-export const rings=Array.from({length:8},(_,i)=>({x:0,y:230,z:-2000+i*170,r:65}));
+export const rings=Array.from({length:8},(_,i)=>({x:[0,-90,-160,-90,0,100,70,0][i],y:230+Math.sin(i*Math.PI/7)*25,z:-3015+i*315,r:65}));
 export function createMission(index=0){return{index,ring:0,delivered:[],rescued:false,done:false,score:0,stars:0,elapsed:0,limit:missions[index].limit};}
 export function target(m){if(m.index===0)return m.ring<8?rings[m.ring]:{...runways[0],z:800,y:45};if(m.index===1)return runways.find(r=>!m.delivered.includes(r.name))||runways[0];return m.rescued?runways[2]:{x:1000,y:180,z:6800};}
-export function updateMission(m,s,dt,sound){if(m.done||s.crash)return;m.elapsed+=dt;if(m.index===0&&m.ring<8){const r=rings[m.ring];if(Math.hypot(s.x-r.x,s.y-r.y,s.z-r.z)<r.r){m.ring++;sound?.chime();}}if(m.index===1&&s.landed&&!m.delivered.includes(s.landingRunway)){m.delivered.push(s.landingRunway);sound?.chime();}if(m.index===2){if(Math.hypot(s.x-1000,s.z-6800)<150)m.rescued=true;s.x+=Math.sin(s.time*.8)*dt*3;if(s.time>30&&s.time<31&&!m.birds){s.damage+=12;m.birds=true;}if(m.elapsed>m.limit)s.crash='Rescue window expired';}const success=s.landed&&(m.index===0?m.ring===8:m.index===1?m.delivered.length===3&&s.landingRunway===runways[0].name:m.rescued&&s.landingRunway===runways[2].name);if(success){m.done=true;m.timeBonus=Math.max(0,Math.round((m.limit-m.elapsed)*10));m.landingBonus=s.landingQuality==='BUTTER'?2000:1000;m.fuelBonus=Math.round(s.fuel*25);m.score=m.timeBonus+m.landingBonus+m.fuelBonus+(m.index===0?m.ring*500:3000);m.stars=s.damage<10&&s.fuel>40?3:s.damage<35?2:1;try{const key='skylane-stars-'+m.index;localStorage.setItem(key,Math.max(m.stars,Number(localStorage.getItem(key))||0));}catch{}sound?.chime();}}
+export function updateMission(m,s,dt,sound){if(m.done||s.crash)return;m.elapsed+=dt;if(m.index===0&&m.ring<8){const r=rings[m.ring];const prev=m.previous||{x:s.x,y:s.y,z:s.z};const f=(r.z-prev.z)/(s.z-prev.z);if(f>=0&&f<=1&&s.z>prev.z&&Math.hypot(prev.x+(s.x-prev.x)*f-r.x,prev.y+(s.y-prev.y)*f-r.y)<r.r){m.ring++;sound?.chime();}}m.previous={x:s.x,y:s.y,z:s.z};if(m.index===1&&s.landed&&s.speed<20.58&&!m.delivered.includes(s.landingRunway)){m.delivered.push(s.landingRunway);sound?.chime();}if(m.index===1&&Math.hypot(s.x+1900,s.z-3800)<2000)s.x+=Math.sin(s.time*1.4)*dt*6;if(m.index===2){if(Math.hypot(s.x-1000,s.z-6800)<150)m.rescued=true;s.x+=Math.sin(s.time*.8)*dt*3;if(s.time>30&&s.time<31&&!m.birds){s.damage+=12;m.birds=true;}if(m.elapsed>m.limit)s.crash='Rescue window expired';}const success=s.landed&&(m.index===0?m.ring===8:m.index===1?m.delivered.length===3&&s.landingRunway===runways[0].name:m.rescued&&s.landingRunway===runways[2].name);if(success){m.done=true;m.timeBonus=Math.max(0,Math.round((m.limit-m.elapsed)*10));m.landingBonus=s.landingQuality==='BUTTER'?2000:1000;m.fuelBonus=Math.round(s.fuel*25);m.score=m.timeBonus+m.landingBonus+m.fuelBonus+(m.index===0?m.ring*500:3000);m.stars=s.damage<10&&s.fuel>40?3:s.damage<35?2:1;try{const key='skylane-stars-'+m.index;localStorage.setItem(key,Math.max(m.stars,Number(localStorage.getItem(key))||0));}catch{}sound?.chime();}}

diff --git a/game/src/shots.js b/game/src/shots.js
@@ -4,5 +4,5 @@ export function stageShot(name){const s=createFlight(),m=createMission();s.time=
  if(name==='cover'){s.z=-1250;s.y=260;m.ring=7;s.roll=-.12;}
  if(name==='cockpit'){s.z=250;s.y=105;s.speed=34;s.pitch=-.07;s.vs=-1.4;s.gear=true;s.roll=0;m.ring=8;}
  if(name==='landing'){s.z=645;s.y=55;s.speed=32;s.pitch=-.04;s.vs=-1.2;s.gear=true;s.roll=0;m.ring=8;}
- if(name==='complete'){s.z=1000;s.y=45;s.speed=0;s.gear=true;s.roll=0;s.landed=true;s.landingQuality='BUTTER';m.ring=8;m.done=true;m.stars=3;m.score=11240;m.timeBonus=3290;m.landingBonus=2000;m.fuelBonus=1950;}
+ if(name==='complete'){s.z=1000;s.y=45;s.speed=0;s.throttle=0;s.gear=true;s.roll=0;s.landed=true;s.landingQuality='BUTTER';m.ring=8;m.done=true;m.stars=3;m.score=11240;m.timeBonus=3290;m.landingBonus=2000;m.fuelBonus=1950;}
  return{s,m,view:name==='cockpit'?'cockpit':'chase'};}

diff --git a/VERIFICATION.md b/VERIFICATION.md
@@ -1,0 +1,12 @@
+SKYLANE verification — 26 November 2026
+
+Browser: headless desktop Chromium, 1280 × 720. No game dependencies or external assets.
+
+- `?selftest=1`: PASS, 8/8 ring discs, SAFE home landing, 11,785 points, 84 simulated seconds. The pilot varies throttle, pitch and bank through the same stepFlight function used by player input. No position changes or teleports during the sortie.
+- Additional physics pilots: mail mission completed with all three deliveries and a return-home landing (9,788 points); storm mission reached the keeper beacon and landed at the harbour (8,962 points). These pilots also used ordinary flight steps, including rollout, refuelling and takeoff on the mail route.
+- Browser input checks: clickable mission selection and departure; keyboard throttle and bank; held mouse steering; gear toggle; cockpit toggle; pause holds position; mute toggle; low-speed stall; hard volcano impact produces a readable crash reason. All passed.
+- Four screenshots captured from the actual renderer and visually inspected: chase cover with island coast, volcano, ring, runway, aircraft and HUD; cockpit final; gear-down threshold; three-star completion with aircraft parked behind the panel.
+- Two independent main.ts outputs compared recursively: identical. The kit's vendored helper is byte-identical to the supplied file. No network URLs, fetch calls, eval or Function constructor in game/.
+- Kit check: 5 passed, 1 expected failure (`transcripts_present`), 16 skipped, 3 checked at submission. Transcript bundling and submission belong to the parent session and were not run here.
+
+Audio synthesis and its browser activation were exercised; subjective sound quality was not assessed through a physical speaker. The screenshots use fixed reachable scene states rather than recording an entire sortie.
